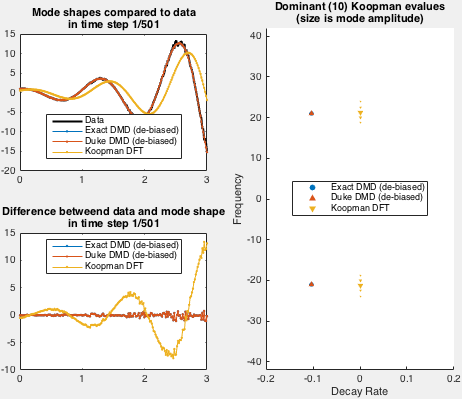
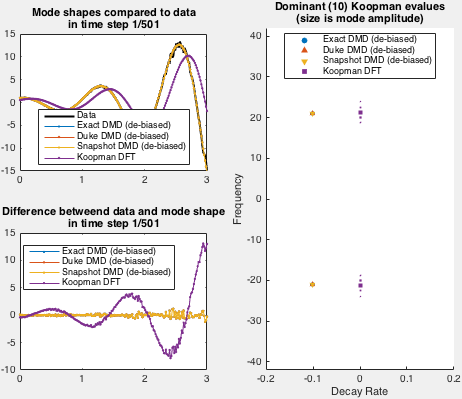
Updated README and demo results to reflect DMD snapshots

diff --git a/validate/DemoKoopmanModes.m b/validate/DemoKoopmanModes.m
@@ -152,22 +152,17 @@ for k = 1:numel(CompFun)
   subplot(2,2,1);
   h = plot( x, y, '.-', 'LineWidth',1);
   h.DisplayName = CompFun(k).Name;
-  legend('Location','Best');
 
   subplot(2,2,3);
   h = plot( x, d, '.-', 'LineWidth',1);
   h.DisplayName = CompFun(k).Name;
   hold all
-
-  legend('Location','Best');
-  pause
-
 end
 
 subplot(2,2,1);
 title({'Mode shapes compared to data',...
        sprintf('in time step %d/%d', step, numel(t))});
-
+legend('Location','Best');
 
 subplot(2,2,3);
 title({'Difference betweend data and mode shape',...

diff --git a/README.md b/README.md
@@ -5,7 +5,7 @@ Written by: Marko Budisic
 
 Koopman mode decomposition is a method for data analysis that identifies fixed shapes (modes) which evolve by exponential growth/decay + oscillation. For a (very) basic overview and comparison with Proper Orthogonal Decomposition, see a [blog post on Marko's website](https://mbudisic.wordpress.com/2015/03/16/two-mode-decompositions-pod-and-dmd/). For a more in-depth overview, please see references [Mezic 2013](#References) and [Budisic et al. 2012](#References) at the bottom of this file.
 
-The goal of this toolbox is to collect several common Koopman mode decomposition algorithms, in a documented, transparent code. 
+The goal of this toolbox is to collect several common Koopman mode decomposition algorithms, in a documented, transparent code.
 
 The code is licensed under a BSD3 license, found in the accompanying LICENSE file.
 
@@ -27,14 +27,20 @@ should list the contents of the toolbox.
 
 ## Basic syntax
 
-Currently, the toolbox implements two algorithms based on Dynamic Mode Decomposition ( [Tu et al. 2014](#References), [Duke et al. 2012](#References) ), and one algorithm based on Discrete Fourier Transform. All functions have similar syntax.
+Currently, the toolbox implements three algorithms based on Dynamic Mode Decomposition:
 
-Let's suppose that a ```Snapshots``` matrix holds a multidimensional data sampled from a process, with each column corresponding to a snapshot at a single time instance, and snapshots taken at a time resolution of ```dt```.
+* DMD by [Tu et al. 2014](#References) which uses SVD decomposition of input snapshots,
+* DMD by [Duke et al. 2012](#References) which uses QR decomposition of input snapshots,
+* DMD by [Chen et al. 2012](#References) which uses SVD decomposition of the square of input snapshots, and
+* direct Koopman mode decomposition based on Discrete Fourier Transform (FFT) of input data.
 
-To compute Koopman modes using the provided algorithms, run either of the three:
+All functions have a similar syntax. Let's suppose that a ```Snapshots``` matrix holds a multidimensional data sampled from a process, with each column corresponding to a snapshot at a single time instance, and snapshots taken at a time resolution of ```dt```.
+
+To compute Koopman modes using the provided algorithms, run either:
 
     >> [Spectrum, Modes, Amplitudes] = koopman.DMD( Snapshots, dt )
     >> [Spectrum, Modes, Amplitudes] = koopman.DMD_Duke( Snapshots, dt )
+    >> [Spectrum, Modes, Amplitudes] = koopman.DMD_Snapshot( Snapshots, dt )
     >> [Spectrum, Modes, Amplitudes] = koopman.KDFT( Snapshots, dt )
 
 Output variables are
@@ -76,12 +82,14 @@ Here is an example of the demo run for decay rate 0 and angular frequency 20:
 
 # References #
 
-[Mezić, Igor. 2013. Analysis of Fluid Flows via Spectral Properties of the Koopman Operator. Annual Review of Fluid Mechanics 45 (1): 357–78.](http://dx.doi.org/10.1146/annurev-fluid-011212-140652)
-
 [Budišić, Marko, Ryan M. Mohr, and Igor Mezić. 2012. “Applied Koopmanism.” Chaos: An Interdisciplinary Journal of Nonlinear Science 22 (4)](http://dx.doi.org/10.1063/1.4772195)
 
-[Tu, Jonathan H., Clarence W. Rowley, Dirk M. Luchtenburg, Steven L. Brunton, and J. Nathan Kutz. 2013. On Dynamic Mode Decomposition: Theory and Applications. Journal of Computational Dynamics.](http://dx.doi.org/10.3934/jcd.2014.1.391)
+[Chen, Kevin K., Jonathan H. Tu, and Clarence W. Rowley. 2012. “Variants of Dynamic Mode Decomposition: Boundary Condition, Koopman, and Fourier Analyses.” Journal of Nonlinear Science 22 (6)](http://dx.doi.org/10.1007/s00332-012-9130-9)
 
 [Duke, Daniel, Julio Soria, and Damon Honnery. 2012. An Error Analysis of the Dynamic Mode Decomposition. Experiments in Fluids 52 (2): 529–42.](http://dx.doi.org/10.1007/s00348-011-1235-7)
 
 [Jovanović, Mihailo R., Peter J. Schmid, and Joseph W. Nichols. 2014. Sparsity-Promoting Dynamic Mode Decomposition. Physics of Fluids 26 (2)](http://dx.doi.org/10.1063/1.4863670)
+
+[Mezić, Igor. 2013. Analysis of Fluid Flows via Spectral Properties of the Koopman Operator. Annual Review of Fluid Mechanics 45 (1): 357–78.](http://dx.doi.org/10.1146/annurev-fluid-011212-140652)
+
+[Tu, Jonathan H., Clarence W. Rowley, Dirk M. Luchtenburg, Steven L. Brunton, and J. Nathan Kutz. 2013. On Dynamic Mode Decomposition: Theory and Applications. Journal of Computational Dynamics.](http://dx.doi.org/10.3934/jcd.2014.1.391)
